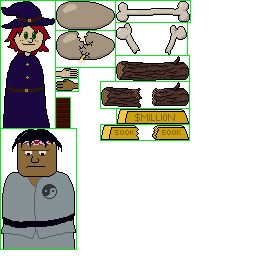
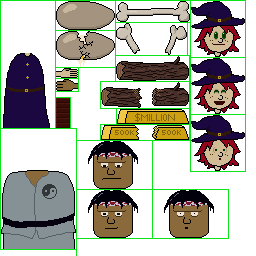
karate chop contest, finishing touches

diff --git a/src/game/minigame/minigame_karate.c b/src/game/minigame/minigame_karate.c
@@ -13,7 +13,7 @@
  */
 #define SPEED_REQ_LO 0.170
 #define SPEED_REQ_HI 0.145
-#define SPEED_AVG_LEN 7
+#define SPEED_AVG_LEN 5
 
 // Your opponent's power rises at a perfectly uniform rate, kind of boring.
 #define SENSEI_RATE 0.100
@@ -34,6 +34,7 @@ struct minigame_karate {
   double speed_threshold;
   double speed_threshlo,speed_threshhi;
   double playclock; // Counts down.
+  double sensei_rate; // Right player's power increases at a fixed rate. He has admirable self-control.
 };
 
 #define MINIGAME ((struct minigame_karate*)minigame)
@@ -96,8 +97,15 @@ static void _karate_update(struct minigame *minigame,double elapsed,int input,in
    */
   if (!MINIGAME->ldone) {
     if ((input&EGG_BTN_SOUTH)&&!(pvinput&EGG_BTN_SOUTH)) {
+      int newp=MINIGAME->avgp;
+      double ago=MINIGAME->clock-0.400;
       MINIGAME->avgv[MINIGAME->avgp++]=MINIGAME->clock;
       if (MINIGAME->avgp>=SPEED_AVG_LEN) MINIGAME->avgp=0;
+      if (MINIGAME->lpower<=0.0) { // From zero, cheat it up.
+        double *dst=MINIGAME->avgv;
+        int i=0;
+        for (;i<SPEED_AVG_LEN;i++,dst++) if ((i!=newp)&&(*dst<ago)) *dst=ago;
+      }
     }
     double ago=MINIGAME->avgv[MINIGAME->avgp];
     double now=MINIGAME->clock;
@@ -118,7 +126,7 @@ static void _karate_update(struct minigame *minigame,double elapsed,int input,in
   }
   
   if (!MINIGAME->rdone) {
-    MINIGAME->rpower+=elapsed*SENSEI_RATE;
+    MINIGAME->rpower+=elapsed*MINIGAME->sensei_rate;
     if (MINIGAME->rpower>1.0) MINIGAME->rpower=1.0;
   }
 }
@@ -160,10 +168,15 @@ static uint32_t meter_color(double v) {
  */
 
 static void draw_karatian(struct minigame *minigame,const struct rect *r,int srcx,int srcy,int srcw,int srch,double power,int thing,int broke) {
-  graf_draw_decal(&g.graf,MINIGAME->texid,r->x+(r->w>>1)-(srcw>>1),r->y+r->h-srch,srcx,srcy,srcw,srch,0);
+
+  // Torso and supports. Static.
+  int bodyx=r->x+(r->w>>1)-(srcw>>1);
+  int bodyy=r->y+r->h-srch;
+  graf_draw_decal(&g.graf,MINIGAME->texid,bodyx,bodyy,srcx,srcy,srcw,srch,0);
   graf_draw_decal(&g.graf,MINIGAME->texid,r->x+6,r->y+r->h-30,56,98,14,30,0);
   graf_draw_decal(&g.graf,MINIGAME->texid,r->x+r->w-20,r->y+r->h-30,56,98,14,30,0);
   
+  // Thing.
   int tsrcx,tsrcy,tw,th,tyoff=0;
   switch (thing) {
     case THING_EGG: {
@@ -226,23 +239,54 @@ static void draw_karatian(struct minigame *minigame,const struct rect *r,int src
   int tdsty=r->y+r->h-30-th+tyoff;
   graf_draw_decal(&g.graf,MINIGAME->texid,tdstx,tdsty,tsrcx,tsrcy,tw,th,0);
   
-  int hsrcx,hsrcy,hw,hh;
+  int hsrcx,hsrcy,hw,hh,hurt=0;
+  int headsrcx,headsrcy,headh; // head width always matches the torso.
   if (r==&MINIGAME->lbox) {
     hsrcx=56;
     hsrcy=68;
     hw=22;
     hh=10;
+    headsrcx=191;
+    headsrcy=1;
+    headh=56;
+    if (MINIGAME->ldone&&!MINIGAME->lbroke) {
+      hurt=1;
+      headsrcy=115;
+    } else if (minigame->outcome>0) {
+      headsrcy=58;
+    }
   } else {
     hsrcx=56;
     hsrcy=79;
     hw=22;
     hh=12;
+    headsrcx=77;
+    headsrcy=141;
+    headh=48;
+    if (MINIGAME->rdone&&!MINIGAME->rbroke) {
+      hurt=1;
+      headsrcx=153;
+      headsrcy=190;
+    } else if (minigame->outcome<0) {
+      headsrcy=190;
+    }
   }
+  graf_draw_decal(&g.graf,MINIGAME->texid,bodyx,bodyy,headsrcx,headsrcy,srcw,headh,0);
   int hdstx=r->x+(r->w>>1)-(hw>>1);
   double hbottom=tdsty-4;
   double htop=r->y+r->h*0.333;
   int hdsty=(int)(htop*power+hbottom*(1.0-power));
+  if (hurt) {
+    int t=g.framec%40;
+    if (t>=20) t=40-t;
+    int alpha=0x80+((t*0x80)/20);
+    if (alpha>0xff) alpha=0xff;
+    graf_set_tint(&g.graf,0xff000000|alpha);
+  }
   graf_draw_decal(&g.graf,MINIGAME->texid,hdstx,hdsty,hsrcx,hsrcy,hw,hh,0);
+  if (hurt) {
+    graf_set_tint(&g.graf,0);
+  }
 }
 
 /* Render.
@@ -261,18 +305,23 @@ static void _karate_render(struct minigame *minigame) {
   RECT(rbox,0x1d5445ff)
   #undef RECT
   
+  // Target line above the meters' background. (lthing and rthing are always the same now).
+  int y=MINIGAME->lmeter.y+MINIGAME->lmeter.h-(int)(power_for_thing(MINIGAME->lthing)*MINIGAME->lmeter.h);
+  graf_draw_rect(&g.graf,MINIGAME->lmeter.x,y,MINIGAME->rmeter.x+MINIGAME->rmeter.w-MINIGAME->lmeter.x,1,0x808080ff);
+  
   // Meter highlight areas.
   int h=(int)(MINIGAME->lpower*MINIGAME->lmeter.h);
   graf_draw_rect(&g.graf,MINIGAME->lmeter.x,MINIGAME->lmeter.y+MINIGAME->lmeter.h-h,MINIGAME->lmeter.w,h,meter_color(MINIGAME->lpower));
   h=(int)(MINIGAME->rpower*MINIGAME->rmeter.h);
   graf_draw_rect(&g.graf,MINIGAME->rmeter.x,MINIGAME->rmeter.y+MINIGAME->rmeter.h-h,MINIGAME->rmeter.w,h,meter_color(MINIGAME->rpower));
   
-  // Dot and Sensei. TODO facial expressions.
+  // Dot and Sensei.
   draw_karatian(minigame,&MINIGAME->lbox,1,1,54,127,MINIGAME->ldone?0.0:MINIGAME->lpower,MINIGAME->lthing,MINIGAME->lbroke);
   draw_karatian(minigame,&MINIGAME->rbox,1,129,75,120,MINIGAME->rdone?0.0:MINIGAME->rpower,MINIGAME->rthing,MINIGAME->rbroke);
   
   // Frame.
   graf_flush(&g.graf);
+  egg_draw_globals(0,0xff); // Seems like a bug in graf, it doesn't unset tint on a flush?
   egg_draw_tile(1,g.texid_sprites,MINIGAME->frame,70);
   
   // Clock.
@@ -347,6 +396,8 @@ struct minigame *minigame_new_karate(double difficulty) {
   }
   #undef ADDVTX
   
+  MINIGAME->playclock=9.0;
+  
   MINIGAME->lpower=0.000;
   MINIGAME->rpower=0.000;
   if (minigame->difficulty<0.250) {
@@ -358,18 +409,24 @@ struct minigame *minigame_new_karate(double difficulty) {
   } else {
     MINIGAME->lthing=THING_GOLD;
   }
-  MINIGAME->rthing=THING_LOG;
+  MINIGAME->rthing=MINIGAME->lthing;
   
   MINIGAME->speed_threshold=SPEED_REQ_LO*(1.0-minigame->difficulty)+SPEED_REQ_HI*minigame->difficulty;
   MINIGAME->speed_threshhi=MINIGAME->speed_threshold*2.0;
   MINIGAME->speed_threshlo=MINIGAME->speed_threshold*0.5;
   
-  // Poison the speed average buffer with times in the distant past, 10 seconds ago.
+  // Sensei uses just enough power to break the thing.
+  // But we fuzz it a little so he hits about half the time.
+  // The first naive calculation is consistently short due to rounding. Perfect!
+  // Adding up to 0.3% randomly yields roughly 1/2 odds against the egg. Should do better against tougher things, which is good.
+  double needpower=power_for_thing(MINIGAME->rthing);
+  MINIGAME->sensei_rate=needpower/MINIGAME->playclock;
+  MINIGAME->sensei_rate+=MINIGAME->sensei_rate*(((rand()&0xffff)/65535.0)*0.003);
+  
+  /* Poison the speed average buffer with times in the distant past, 10 seconds ago. */
   double *p=MINIGAME->avgv;
   int i=SPEED_AVG_LEN;
   for (;i-->0;p++) *p=-10.0;
-  
-  MINIGAME->playclock=9.0;
   
   egg_play_song(RID_song_even_tippier_toe,0,1);
   

diff --git a/src/game/minigame/minigame_jumprope.c b/src/game/minigame/minigame_jumprope.c
@@ -129,7 +129,9 @@ static void _jumprope_update(struct minigame *minigame,double elapsed,int input,
   // The fancier bits are all in render, we just tick the clock and signal completion.
   if (MINIGAME->santa_mode) {
     MINIGAME->xmasclock+=elapsed;
-    if ((input&EGG_BTN_SOUTH)&&!(pvinput&EGG_BTN_SOUTH)) MINIGAME->xmasclock=5.0;
+    if (MINIGAME->xmasclock>=0.5) {
+      if ((input&EGG_BTN_SOUTH)&&!(pvinput&EGG_BTN_SOUTH)) MINIGAME->xmasclock=5.0;
+    }
     if (MINIGAME->xmasclock>=4.0) {
       minigame->outcome=1;
     }
@@ -262,11 +264,11 @@ static void draw_xmas(struct minigame *minigame) {
   int santay=Y_FLOOR-61;
   graf_draw_decal(&g.graf,MINIGAME->texid,santax,santay,143,92,63,61,0);
   if (MINIGAME->xmasclock>3.000) {
-    // ok done throwing it, arm disappears
+    // ok done throwing it, arm disappears.
   } else if (MINIGAME->xmasclock>2.000) {
     // throwing it
     graf_draw_decal(&g.graf,MINIGAME->texid,santax+12,santay+14,207,85,19,18,0);
-  } else if (MINIGAME->xmasclock>1.000) {
+  } else if (MINIGAME->xmasclock>0.500) {
     // brandishing
     graf_draw_decal(&g.graf,MINIGAME->texid,santax+13,santay+26,207,76,17,8,0);
     graf_draw_tile(&g.graf,MINIGAME->texid,santax+11,santay+28,MINIGAME->prize,0);
@@ -286,6 +288,8 @@ static void draw_xmas(struct minigame *minigame) {
     y*=arch;
     y=y0-(arch-y);
     graf_draw_tile(&g.graf,MINIGAME->texid,(int)x,(int)y,MINIGAME->prize,0);
+  } else if (MINIGAME->xmasclock>=4.000) {
+    graf_draw_tile(&g.graf,MINIGAME->texid,120,santay+28,MINIGAME->prize,0);
   }
 }
 

diff --git a/README.md b/README.md
@@ -52,10 +52,10 @@ Code For A Cause Micro Jam, July 2025, theme "EVERY ACTION HAS A COST".
 - [x] Visual juice paying tolldoor.
 - [x] Animate walking.
 - [ ] Animate bumping walls.
-- [ ] Karate: Foe should get the same thing as you, and should use exactly enough power to break it.
-- [ ] Karate: Fudge the mavg such that the first stroke creates visible activity in the meter.
-- [ ] Karate: Facial expressions.
-- [ ] Karate: Indicator in power meter of required level. Or does that expose too much?
+- [x] Karate: Foe should get the same thing as you, and should use exactly enough power to break it.
+- [x] Karate: Fudge the mavg such that the first stroke creates visible activity in the meter.
+- [x] Karate: Facial expressions.
+- [x] Karate: Indicator in power meter of required level. Or does that expose too much?
 - [ ] Dance: At the end, I keep wanting to press A and proceed, before the "You win" message.
 - [x] Dance: Hihat a bit louder.
 - [ ] Jumprope: Distraught faces when lost. And some decoration on the rope. An explosion?
